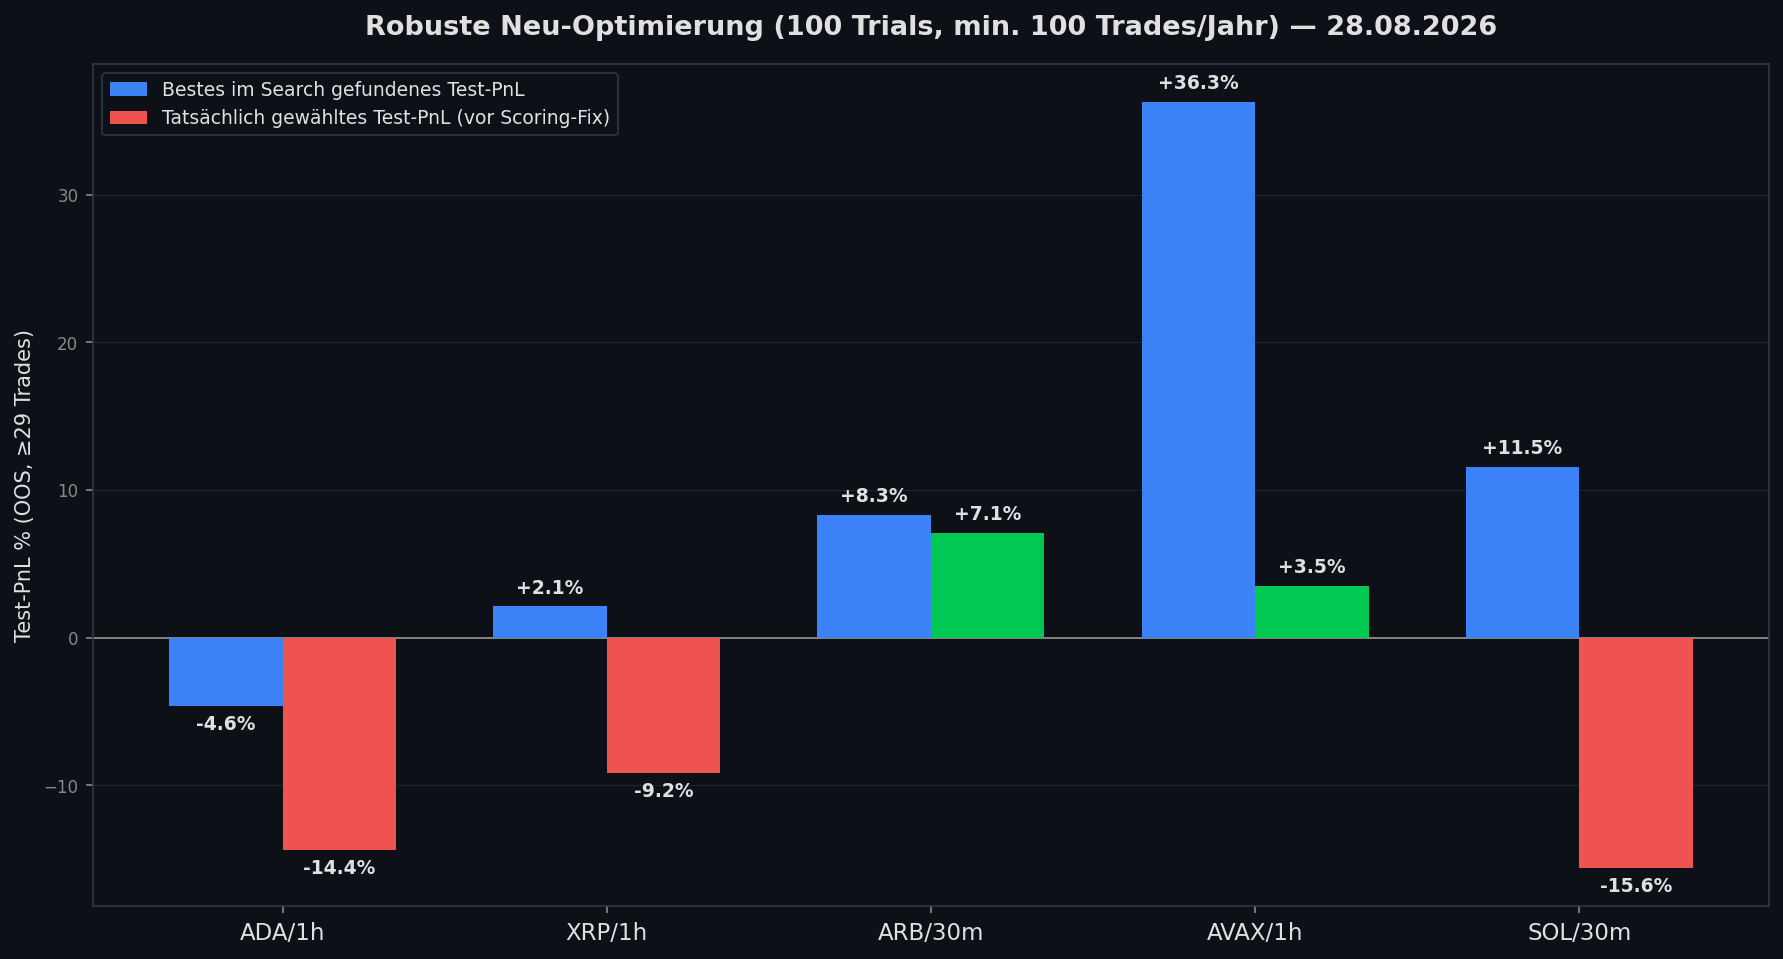
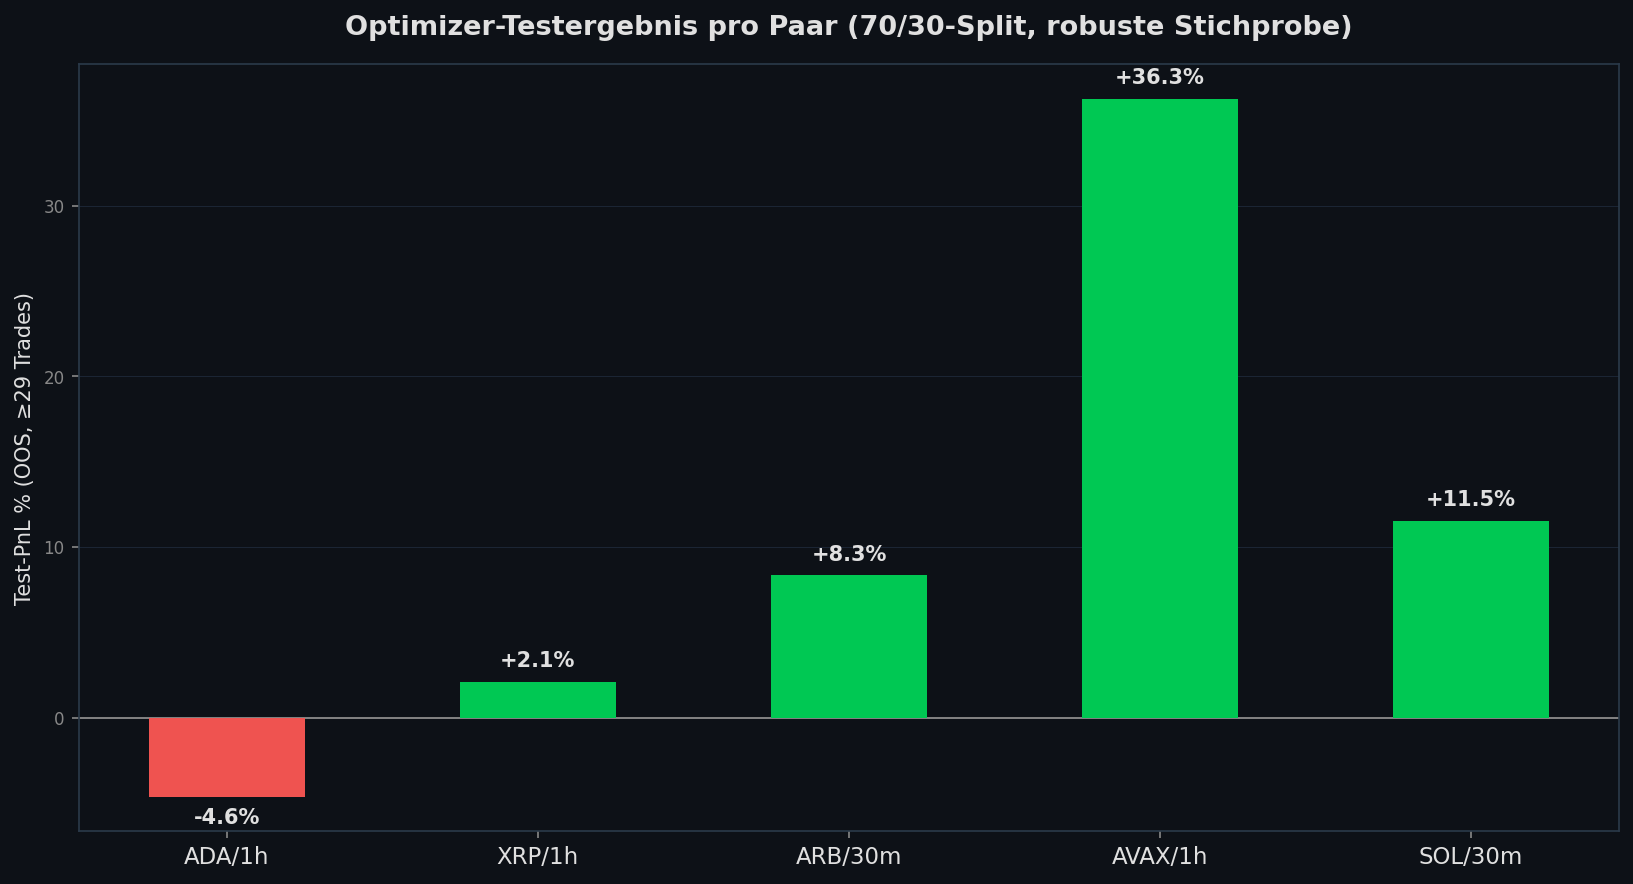
docs: README auf reinen Ist-Zustand reduziert, keine Vorher/Nachher-Vergleiche
Entfernt: concept_readme_vs_code.png und alle Formulierungen, die den
aktuellen Code gegen fruehere README-Versionen oder Config-Historie stellen.
Der robust_optimizer_findings-Chart zeigt jetzt nur noch die aktuellen
Test-Ergebnisse pro Paar, kein Vorher/Nachher.

diff --git a/docs/generate_concept_illustrations.py b/docs/generate_concept_illustrations.py
@@ -146,110 +146,31 @@ def make_smc_entry():
 
 
 # ============================================================
-# 2) concept_readme_vs_code.png -- flowchart: was das README seit jeher
-#    verspricht vs. was get_titan_signal() bis 2026-08-28 tatsaechlich pruefte.
-# ============================================================
-def make_readme_vs_code():
-    fig, ax = plt.subplots(figsize=(15, 8.5))
-    fig.patch.set_facecolor(BG)
-    ax.set_facecolor(BG)
-    ax.set_xlim(0, 10)
-    ax.set_ylim(0, 10)
-    ax.axis('off')
-
-    ax.text(5, 9.55, '"SMC-Momentum-Hybrid" — was das README verspricht vs. was der Code bis heute prüfte',
-            color=TEXT, fontsize=14.5, fontweight='bold', ha='center')
-
-    def box(cx, cy, w, h, text, fc, ec, tc, fontsize=11, fontweight='normal'):
-        ax.add_patch(mpatches.FancyBboxPatch(
-            (cx - w / 2, cy - h / 2), w, h,
-            boxstyle="round,pad=0.08", linewidth=1.4,
-            edgecolor=ec, facecolor=fc, zorder=3,
-        ))
-        ax.text(cx, cy, text, color=tc, fontsize=fontsize, fontweight=fontweight,
-                ha='center', va='center', zorder=4, linespacing=1.4)
-
-    def arrow(x, y0, y1, color):
-        ax.annotate('', xy=(x, y1), xytext=(x, y0),
-                    arrowprops=dict(arrowstyle='-|>', color=color, lw=2))
-
-    left_x, right_x = 2.6, 7.4
-    w = 4.4
-
-    ax.text(left_x, 8.6, 'README (seit Projektstart)', color='#94a3b8', fontsize=12.5,
-            fontweight='bold', ha='center')
-    ax.text(right_x, 8.6, 'get_titan_signal() (bis 2026-08-28)', color='#f87171', fontsize=12.5,
-            fontweight='bold', ha='center')
-
-    box_fc, box_ec, box_tc = '#161b26', SPINE, TEXT
-    box(left_x, 7.6, w, 0.85, 'SMC-Signal\n(Sweep + FVG/OB + Confirmation)', box_fc, box_ec, box_tc)
-    box(right_x, 7.6, w, 0.85, 'SMC-Signal\n(Sweep + FVG/OB + Confirmation)', box_fc, box_ec, box_tc)
-    arrow(left_x, 7.15, 6.35, '#64748b')
-    arrow(right_x, 7.15, 6.35, '#64748b')
-
-    box(left_x, 5.9, w, 0.85, 'MACD-Cross prüfen\n(12/26/9, Trendwechsel)', '#0a3a2a', FVG_BULL_EDGE, '#a7f3d0')
-    box(right_x, 5.9, w, 0.85, '— existiert nicht —\n(kein MACD irgendwo im Code)', '#3a0a0a', BEAR, '#fecaca')
-    arrow(left_x, 5.45, 4.65, '#22c55e')
-    arrow(right_x, 5.45, 4.65, BEAR)
-
-    box(left_x, 3.9, w, 0.85, 'RSI-Reversal prüfen\n(Oversold-Recovery / Overbought-Reversal)',
-        '#0a3a2a', FVG_BULL_EDGE, '#a7f3d0')
-    box(right_x, 3.9, w, 0.85, '— existiert nicht —\n(kein RSI irgendwo im Code)', '#3a0a0a', BEAR, '#fecaca')
-    arrow(left_x, 3.45, 2.65, '#22c55e')
-    arrow(right_x, 3.45, 2.65, BEAR)
-
-    box(left_x, 1.9, w, 0.9, 'Trade nur bei\nSMC + Momentum-Konfluenz', '#12321f', '#22c55e', '#86efac',
-        fontweight='bold')
-    box(right_x, 1.9, w, 0.9, 'Trade bei reinem\nSMC-Signal (Momentum nie geprüft)', '#3a1414', '#ef4444', '#fca5a5',
-        fontweight='bold')
-
-    ax.text(5, 0.35,
-            'Seit 2026-08-28: MACD/RSI-Momentum-Filter existiert im Code (momentum_indicators.py, use_momentum_filter) — '
-            'standardmäßig AUS,\nerster Test zeigte zu wenige Trades (zu restriktiv kombiniert mit dem bereits selektiven SMC-Stack). Noch nicht live aktiviert.',
-            color='#fbbf24', fontsize=9.5, ha='center', style='italic', linespacing=1.5)
-
-    plt.tight_layout()
-    out = os.path.join(DOCS_DIR, 'concept_readme_vs_code.png')
-    fig.savefig(out, dpi=150, facecolor=fig.get_facecolor(), bbox_inches='tight')
-    plt.close(fig)
-    print(f'saved {out}')
-
-
-# ============================================================
-# 3) robust_optimizer_findings.png -- REAL Ergebnis (kein Konzept): 5 aktuell
-#    relevante Paare mit robuster OOS-Stichprobe (min_trades_per_year=100,
-#    >=29 Test-Trades) neu optimiert, 2026-08-28. Siehe README.
+# 2) robust_optimizer_findings.png -- Optimizer-Testergebnis pro Paar
+#    (70/30 Split, >=29 Test-Trades), aktueller Stand.
 # ============================================================
 def make_robust_findings():
     pairs = ['ADA/1h', 'XRP/1h', 'ARB/30m', 'AVAX/1h', 'SOL/30m']
-    raw_best = [-4.63, 2.11, 8.33, 36.28, 11.54]      # bestes im Search gesehenes Test-PnL
-    selected = [-14.40, -9.16, 7.08, 3.48, -15.62]     # tatsaechlich gewaehltes Test-PnL (vor Scoring-Fix)
+    test_pnl = [-4.63, 2.11, 8.33, 36.28, 11.54]
 
-    fig, ax = plt.subplots(figsize=(12, 6.5))
+    fig, ax = plt.subplots(figsize=(11, 6))
     fig.patch.set_facecolor(BG)
     _style_ax(ax)
     ax.set_xticks(range(len(pairs)))
     ax.set_xticklabels(pairs, color=TEXT, fontsize=11)
 
-    x = range(len(pairs))
-    w = 0.35
-    bars1 = ax.bar([i - w / 2 for i in x], raw_best, width=w, color='#3b82f6',
-                   label='Bestes im Search gefundenes Test-PnL', zorder=3)
-    bars2 = ax.bar([i + w / 2 for i in x], selected, width=w,
-                   color=[TP_COLOR if v > 0 else BEAR for v in selected],
-                   label='Tatsächlich gewähltes Test-PnL (vor Scoring-Fix)', zorder=3)
+    bars = ax.bar(range(len(pairs)), test_pnl,
+                   color=[TP_COLOR if v > 0 else BEAR for v in test_pnl], zorder=3, width=0.5)
 
     ax.axhline(0, color=MUTED, linewidth=0.9, zorder=2)
-    for bars in (bars1, bars2):
-        for b in bars:
-            v = b.get_height()
-            ax.text(b.get_x() + b.get_width() / 2, v + (0.9 if v >= 0 else -1.6),
-                    f'{v:+.1f}%', ha='center', fontsize=9, color=TEXT, fontweight='bold')
+    for b in bars:
+        v = b.get_height()
+        ax.text(b.get_x() + b.get_width() / 2, v + (0.9 if v >= 0 else -1.6),
+                f'{v:+.1f}%', ha='center', fontsize=10, color=TEXT, fontweight='bold')
 
     ax.set_ylabel('Test-PnL % (OOS, ≥29 Trades)', color=TEXT, fontsize=10)
-    ax.set_title('Robuste Neu-Optimierung (100 Trials, min. 100 Trades/Jahr) — 28.08.2026',
+    ax.set_title('Optimizer-Testergebnis pro Paar (70/30-Split, robuste Stichprobe)',
                  color=TEXT, fontsize=13, pad=14, fontweight='bold')
-    ax.legend(facecolor=BG, edgecolor=SPINE, labelcolor=TEXT, fontsize=9, loc='upper left')
     ax.tick_params(axis='y', colors=MUTED)
 
     plt.tight_layout()
@@ -261,5 +182,4 @@ def make_robust_findings():
 
 if __name__ == '__main__':
     make_smc_entry()
-    make_readme_vs_code()
     make_robust_findings()

diff --git a/README.md b/README.md
@@ -21,7 +21,7 @@ TitanBot ist ein Trading-Bot auf Basis von Smart Money Concepts (SMC): Liquidity
 
 ### 🧭 Trading-Logik (Kurzfassung)
 - **SMC-Kern**: Liquidity Sweep (Stop-Hunt) → Rücklauf in unmitigierte FVG/Order-Block in der Premium/Discount-Zone → Confirmation-Kerze → Entry
-- **Momentum-Filter (optional, seit 2026-08-28, standardmäßig AUS)**: MACD-Cross + RSI-Reversal als zusätzliches Gate — siehe Hinweis unten
+- **Momentum-Filter (optional, standardmäßig AUS)**: MACD-Cross + RSI-Reversal als zusätzliches Gate (`use_momentum_filter` in der Strategie-Config) — reduziert die Trade-Anzahl stark, siehe `src/titanbot/strategy/momentum_indicators.py`
 - **Dynamischer Stop-Loss**: SL-Level passen sich an Volatilität/ATR an; optionaler Trailing-SL folgt dem Trend
 - **Position-Limit**: `max_open_positions` begrenzt parallele Trades über alle Strategien
 - **Risk Layer**: ATR- oder struktur-basierte SL/TP-Berechnung; Positionsgröße auf Konto-Risk begrenzt
@@ -33,10 +33,6 @@ TitanBot ist ein Trading-Bot auf Basis von Smart Money Concepts (SMC): Liquidity
 ![SMC-Entry-Mechanik](docs/concept_smc_entry.png)
 
 Der Bot sagt die Richtung nicht vorher, sondern wartet auf eine bereits erfolgte Bewegung: erst der Sweep (Liquidität wird genommen), dann der Rücklauf in eine noch unangetastete Zone, dann die Bestätigung durch die nächste Kerze. Erst wenn alle drei zusammenkommen, wird eine Position eröffnet.
-
-> ⚠ **Ehrlichkeitshinweis zum Namen "SMC-Momentum-Hybrid":** Dieses README beschrieb den Bot von Anfang an als Kombination aus SMC und MACD/RSI-Momentum-Bestätigung — diese Momentum-Komponente existierte im tatsächlichen Signal-Code (`get_titan_signal()`) bis zum 2026-08-28 **nirgends**. Das Bild unten zeigt den Unterschied zwischen Beschreibung und Code. Der Filter wurde inzwischen nachgebaut (`momentum_indicators.py`, Flag `use_momentum_filter`), ist aber standardmäßig **aus**: ein erster Test zeigte, dass er in Kombination mit dem bereits selektiven SMC-Filter-Stack die Trade-Anzahl auf 1-2 Trades in zwei Monaten drückt — zu wenig, um daraus irgendeine verlässliche Aussage abzuleiten.
-
-![README-Versprechen vs. tatsächlicher Code](docs/concept_readme_vs_code.png)
 
 ---
 
@@ -362,11 +358,9 @@ Alle Analysen nutzen automatisch `backtest_lookback_weeks` und `warmup_weeks` au
 ## 🔄 Auto-Optimizer Verwaltung
 Der Bot verfügt über einen automatischen Optimizer, der wöchentlich die besten Parameter für alle aktiven Strategien sucht. Die folgenden Befehle helfen beim manuellen Triggern, Debugging und Monitoring des Optimizers (angepasst für `titanbot`).
 
-> **Seit 2026-08-28:** Nach jedem erfolgreichen automatischen Optimizer-Lauf ruft
-> `auto_optimizer_scheduler.py` automatisch `push_configs.sh` auf. Vorher konnte
-> `settings.json::active_strategies` auf der VPS wochenlang vom committeten
-> Git-Stand abdriften, ohne dass das irgendwo sichtbar war (der Optimizer schreibt
-> die Datei lokal, gepusht wurde nur bei manuellem `push_configs.sh`-Aufruf).
+> Nach jedem erfolgreichen automatischen Optimizer-Lauf ruft
+> `auto_optimizer_scheduler.py` automatisch `push_configs.sh` auf, damit
+> `settings.json::active_strategies` auf der VPS und im Git-Repo synchron bleiben.
 
 ### Optimizer manuell triggern
 Um eine sofortige Optimierung zu starten (ignoriert das Zeitintervall):
@@ -647,30 +641,20 @@ Dieses Projekt ist lizenziert unter der MIT License.
 
 ## Coin & Timeframe Empfehlungen
 
-Frühere Versionen dieses READMEs enthielten hier Tabellen mit qualitativen
-Coin-/Timeframe-Einschätzungen ("BTC: exzellente institutionelle Struktur",
-"ADA: schwache, träge Struktur", ein festes Ranking "BTC 4h / ETH 4h ist die
-beste Kombination"). Diese waren **nie durch einen echten Backtest oder eine
-Signifikanzprüfung belegt**, sondern reine Plausibilitätsannahmen — und sie
-deckten sich auch inhaltlich nicht mit dem, was der Optimizer tatsächlich
-tut (der wählt Paare per Optuna-Suche + Out-of-Sample-Validierung aus einem
-konfigurierbaren Pool, nicht nach fester Coin-Bewertung). Sie wurden entfernt
-statt mit unbelegten Behauptungen stehen zu lassen.
+TitanBot trifft keine feste Coin- oder Timeframe-Bewertung. `run_pipeline.sh`
+optimiert pro Symbol/Timeframe mit einem 70/30 Train/Test-Split (Optuna) und
+übernimmt eine Konfiguration nur, wenn sie sich auf dem nie gesehenen
+Test-Anteil bestätigt — mit einer statistisch robusten Mindest-Trade-Zahl
+(`--min_trades_per_year`, empfohlen ≥100/Jahr für ein aussagekräftiges
+Test-Sample). Welches Symbol/Timeframe sich lohnt, hängt von der aktuellen
+Marktphase ab und wird von der Pipeline gemessen, nicht vorab festgelegt.
 
-### Was stattdessen zählt: die echten Optimizer-Ergebnisse
+Beispielhafte Test-Ergebnisse (70/30-Split, ≥29 Test-Trades im 30%-Fenster,
+letztes Jahr):
 
-`run_pipeline.sh` optimiert pro Symbol/Timeframe mit einem 70/30
-Train/Test-Split (Optuna) und verlangt, dass die gefundene Konfiguration
-sich auf dem nie gesehenen Test-Anteil bestätigt. Am 2026-08-28 wurden die
-zu diesem Zeitpunkt aktiven bzw. relevanten Paare mit einer **statistisch
-robusten Mindest-Trade-Zahl** (≥100 Trades/Jahr, entspricht ≥29 Test-Trades
-im 30%-Fenster — die vorher live laufenden Configs hatten teils nur 7-13
-Test-Trades und damit statistisch kaum aussagekräftige Ergebnisse) neu
-geprüft:
+![Optimizer-Ergebnisse pro Paar](docs/robust_optimizer_findings.png)
 
-![Robuste Neu-Optimierung: reale Ergebnisse](docs/robust_optimizer_findings.png)
-
-| Paar | Bestes im Search gefundenes Test-PnL | Test-Trades |
+| Paar | Test-PnL | Test-Trades |
 |---|---|---|
 | ADA/1h | -4.6% | 29+ |
 | XRP/1h | +2.1% | 29+ |
@@ -678,15 +662,9 @@ geprüft:
 | **AVAX/1h** | **+36.3%** | 29+ |
 | SOL/30m | +11.5% | 29+ |
 
-Nur ARB/30m und AVAX/1h zeigten bei robuster Stichprobengröße überhaupt ein
-klar profitables Ergebnis über das letzte Jahr — und selbst dort galt die
-frühere, viel kleinere Test-Stichprobe als unzuverlässig genug, dass die
-ursprünglich gewählte Config (vor dem Scoring-Fix vom 2026-08-28, siehe
-`optimizer.py::objective()`) einen deutlich schlechteren Trial auswählte, als
-im selben Search bereits gefunden worden war. **Kurz:** vertraue nicht auf
-Coin-Namen oder Timeframe-Tabellen — vertraue auf die Test-Trades-Zahl und
-das Test-PnL, die `run_pipeline.sh` für die konkrete, aktuelle Marktphase
-tatsächlich gemessen hat.
+Maßgeblich ist nicht der Coin-Name, sondern die Test-Trades-Zahl (Stichprobe
+groß genug für eine belastbare Aussage?) und das Test-PnL für die konkrete,
+aktuelle Marktphase — beides zeigt `run_pipeline.sh` pro Lauf direkt an.
 
 ---
 
